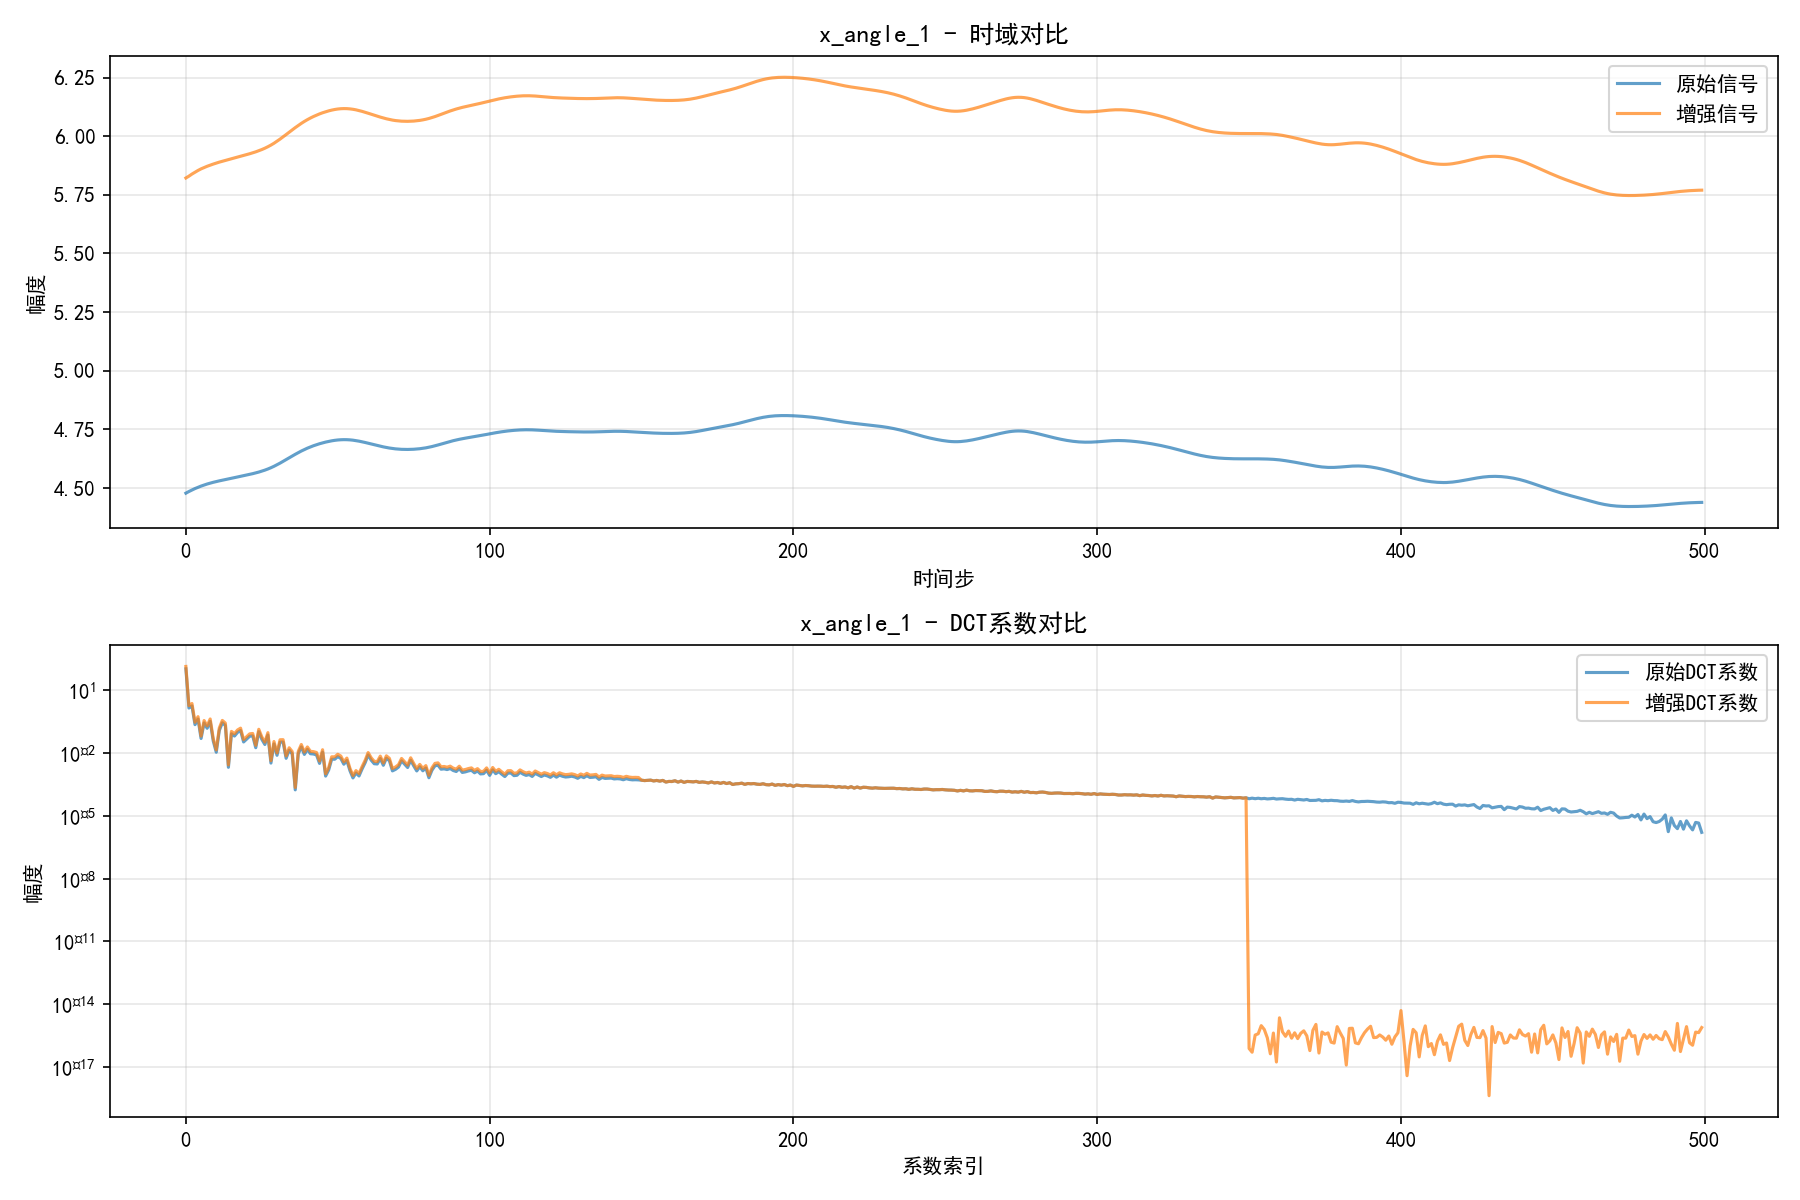
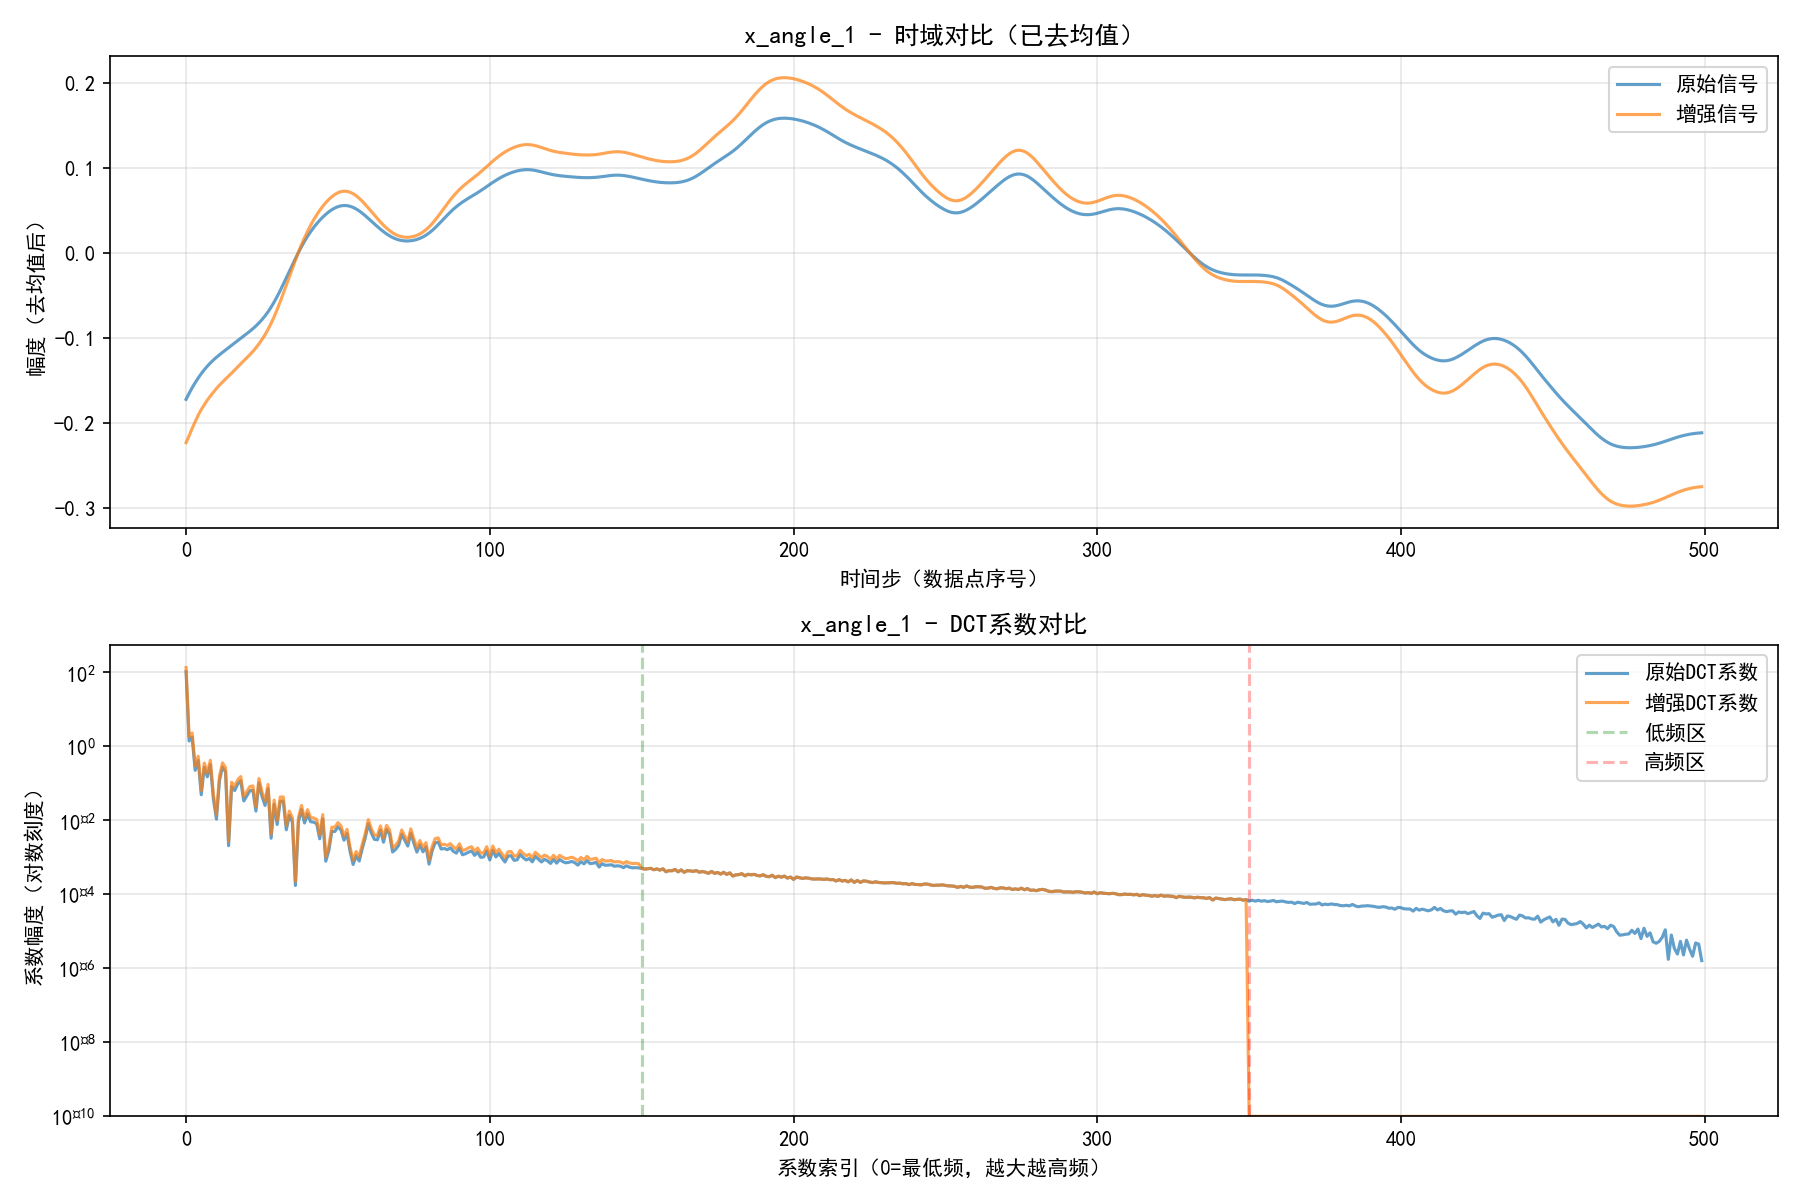
feat: 完成 DCT 增强和 PSD 分析对比

diff --git a/utils/dct_enhancement.py b/utils/dct_enhancement.py
@@ -93,12 +93,15 @@ def compare_signals(original, enhanced, title='信号对比', save_path=None):
     
     fig, axes = plt.subplots(2, 1, figsize=(12, 8))
     
-    # 时域对比
-    axes[0].plot(original, label='原始信号', alpha=0.7)
-    axes[0].plot(enhanced, label='增强信号', alpha=0.7)
-    axes[0].set_title(f'{title} - 时域对比')
-    axes[0].set_xlabel('时间步')
-    axes[0].set_ylabel('幅度')
+    # 时域对比 - 去除均值以对齐基线
+    original_centered = original - np.mean(original)
+    enhanced_centered = enhanced - np.mean(enhanced)
+    
+    axes[0].plot(original_centered, label='原始信号', alpha=0.7, linewidth=1.5)
+    axes[0].plot(enhanced_centered, label='增强信号', alpha=0.7, linewidth=1.5)
+    axes[0].set_title(f'{title} - 时域对比（已去均值）')
+    axes[0].set_xlabel('时间步（数据点序号）')
+    axes[0].set_ylabel('幅度（去均值后）')
     axes[0].legend()
     axes[0].grid(True, alpha=0.3)
     
@@ -106,14 +109,26 @@ def compare_signals(original, enhanced, title='信号对比', save_path=None):
     original_dct = dct(original, type=2, norm='ortho')
     enhanced_dct = dct(enhanced, type=2, norm='ortho')
     
-    axes[1].plot(np.abs(original_dct), label='原始DCT系数', alpha=0.7)
-    axes[1].plot(np.abs(enhanced_dct), label='增强DCT系数', alpha=0.7)
+    # 过滤数值误差：将极小值设为最小阈值，避免显示数值噪声
+    threshold = 1e-10
+    original_dct_clean = np.where(np.abs(original_dct) < threshold, threshold, np.abs(original_dct))
+    enhanced_dct_clean = np.where(np.abs(enhanced_dct) < threshold, threshold, np.abs(enhanced_dct))
+    
+    axes[1].plot(original_dct_clean, label='原始DCT系数', alpha=0.7, linewidth=1.5)
+    axes[1].plot(enhanced_dct_clean, label='增强DCT系数', alpha=0.7, linewidth=1.5)
     axes[1].set_title(f'{title} - DCT系数对比')
-    axes[1].set_xlabel('系数索引')
-    axes[1].set_ylabel('幅度')
+    axes[1].set_xlabel('系数索引（0=最低频，越大越高频）')
+    axes[1].set_ylabel('系数幅度（对数刻度）')
     axes[1].legend()
     axes[1].grid(True, alpha=0.3)
     axes[1].set_yscale('log')
+    axes[1].set_ylim([threshold, None])  # 设置纵轴下限
+    
+    # 添加频率区域标注
+    n = len(original_dct)
+    axes[1].axvline(n*0.3, color='green', linestyle='--', alpha=0.3, label='低频区')
+    axes[1].axvline(n*0.7, color='red', linestyle='--', alpha=0.3, label='高频区')
+    axes[1].legend()
     
     plt.tight_layout()
     

diff --git a/PSD分析方法对比.md b/PSD分析方法对比.md
@@ -1,0 +1,92 @@
+# PSD分析方法对比
+
+## � 核心差异
+
+### **问题：为什么两个结果差这么多？**
+
+**同学的图**: 横轴 10^-3 到 10^-1 Hz，曲线锯齿状  
+**我的图**: 横轴 0.5 到 50 Hz，曲线平滑
+
+---
+
+## ⚠ 三个关键错误
+
+### **1. 采样率错误（最严重）**
+
+```python
+# 同学的代码
+sample_spacing = 1.0  # ❌ 错误！意味着每秒1个数据点
+
+# 实际情况
+时间间隔 = 0.002秒  # 每秒500个数据点
+```
+
+**影响**:
+- 错误: 频率范围 0-0.5 Hz（太慢，不合理）
+- 正确: 频率范围 0-250 Hz（合理的陀螺仪频率）
+- **错了500倍！**
+
+---
+
+### **2. 方法不同**
+
+| 特性 | 同学（周期图法） | 我（Welch方法） |
+|------|----------------|----------------|
+| 分段 | 无 | 512点/段 |
+| 平均 | 无 | 12段平均 |
+| 结果 | 波动大，有毛刺 | 平滑稳定 |
+| 标准 | 快速粗略 | 工程标准 ✓ |
+
+**简单理解**:
+- 周期图 = 测量1次 → 不稳定
+- Welch = 测量12次取平均 → 稳定
+
+---
+
+### **3. 预处理不完整**
+
+```python
+# 同学的代码
+centered = series - np.mean(series)  # 只去均值
+
+# 我的代码
+signal = detrend(signal, type='linear')  # 去线性趋势
+signal = (signal - mean) / std           # 标准化
+```
+
+---
+
+## ✅ 结论
+
+**我的实现是正确的**，因为：
+1. ✓ 采样率正确（500 Hz）
+2. ✓ 使用Welch方法（标准做法）
+3. ✓ 完整预处理
+
+**同学的主要问题**：
+1. ✗ 采样率错误（1 Hz，应该是500 Hz）
+2. ✗ 直接FFT不稳定
+3. ✗ 缺少预处理
+
+---
+
+## � 快速修复（给同学）
+
+只需改一行：
+
+```python
+# 原来
+sample_spacing = 1.0
+
+# 改成
+sample_spacing = df['time'].diff().mean()  # 自动计算，约0.002
+```
+
+更好的做法：改用Welch方法
+
+```python
+from scipy.signal import welch
+
+fs = 1 / sample_spacing  # 约500 Hz
+freqs, psd = welch(signal, fs=fs, nperseg=512, noverlap=256)
+```
